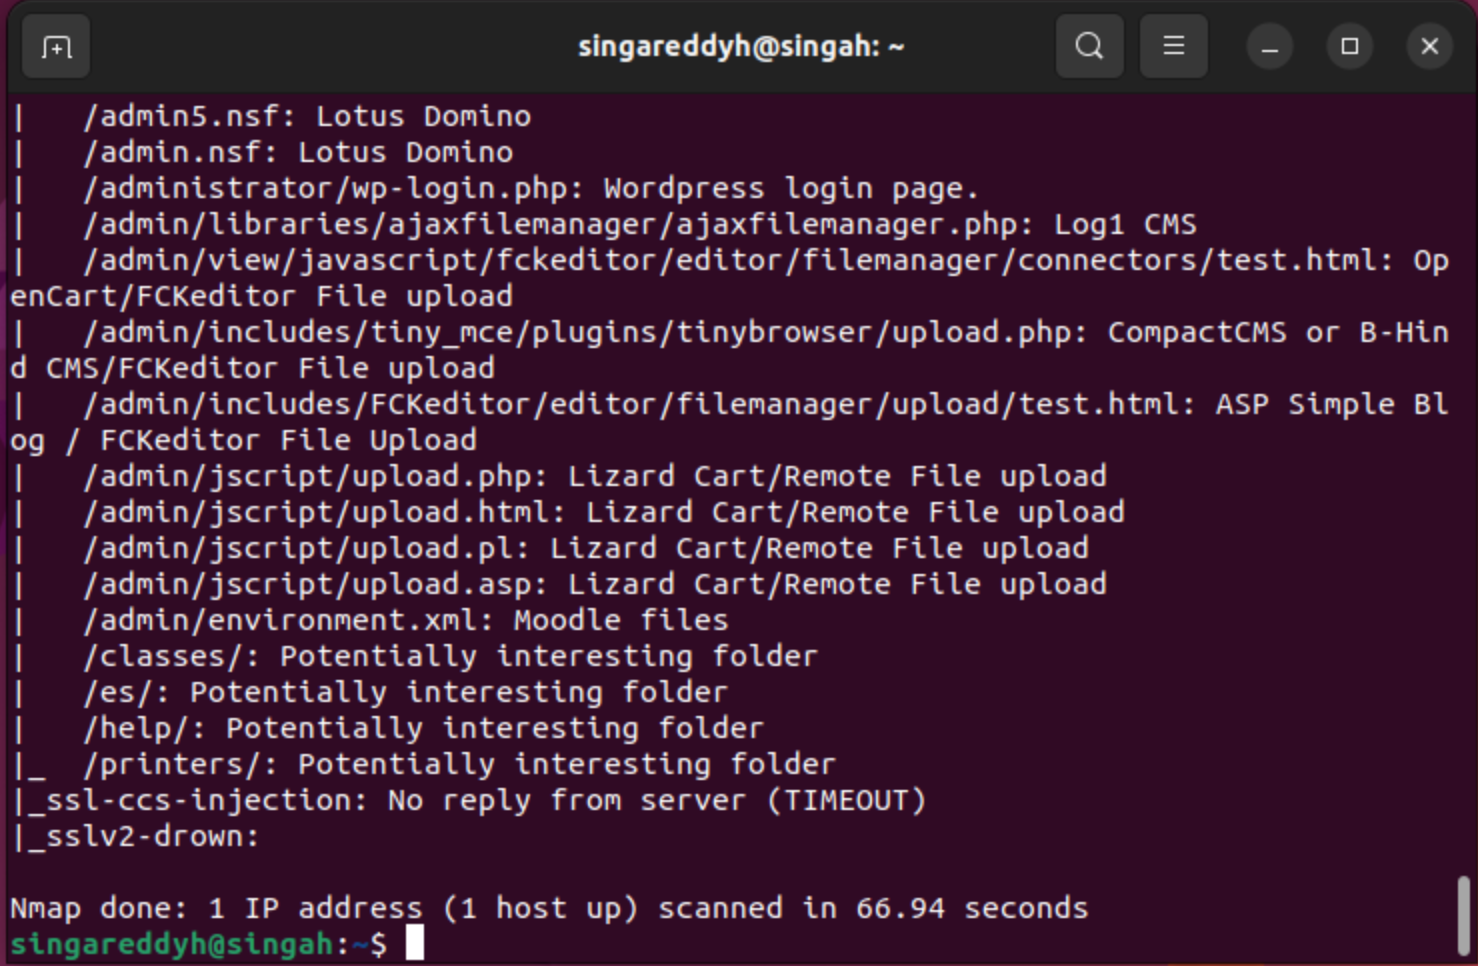
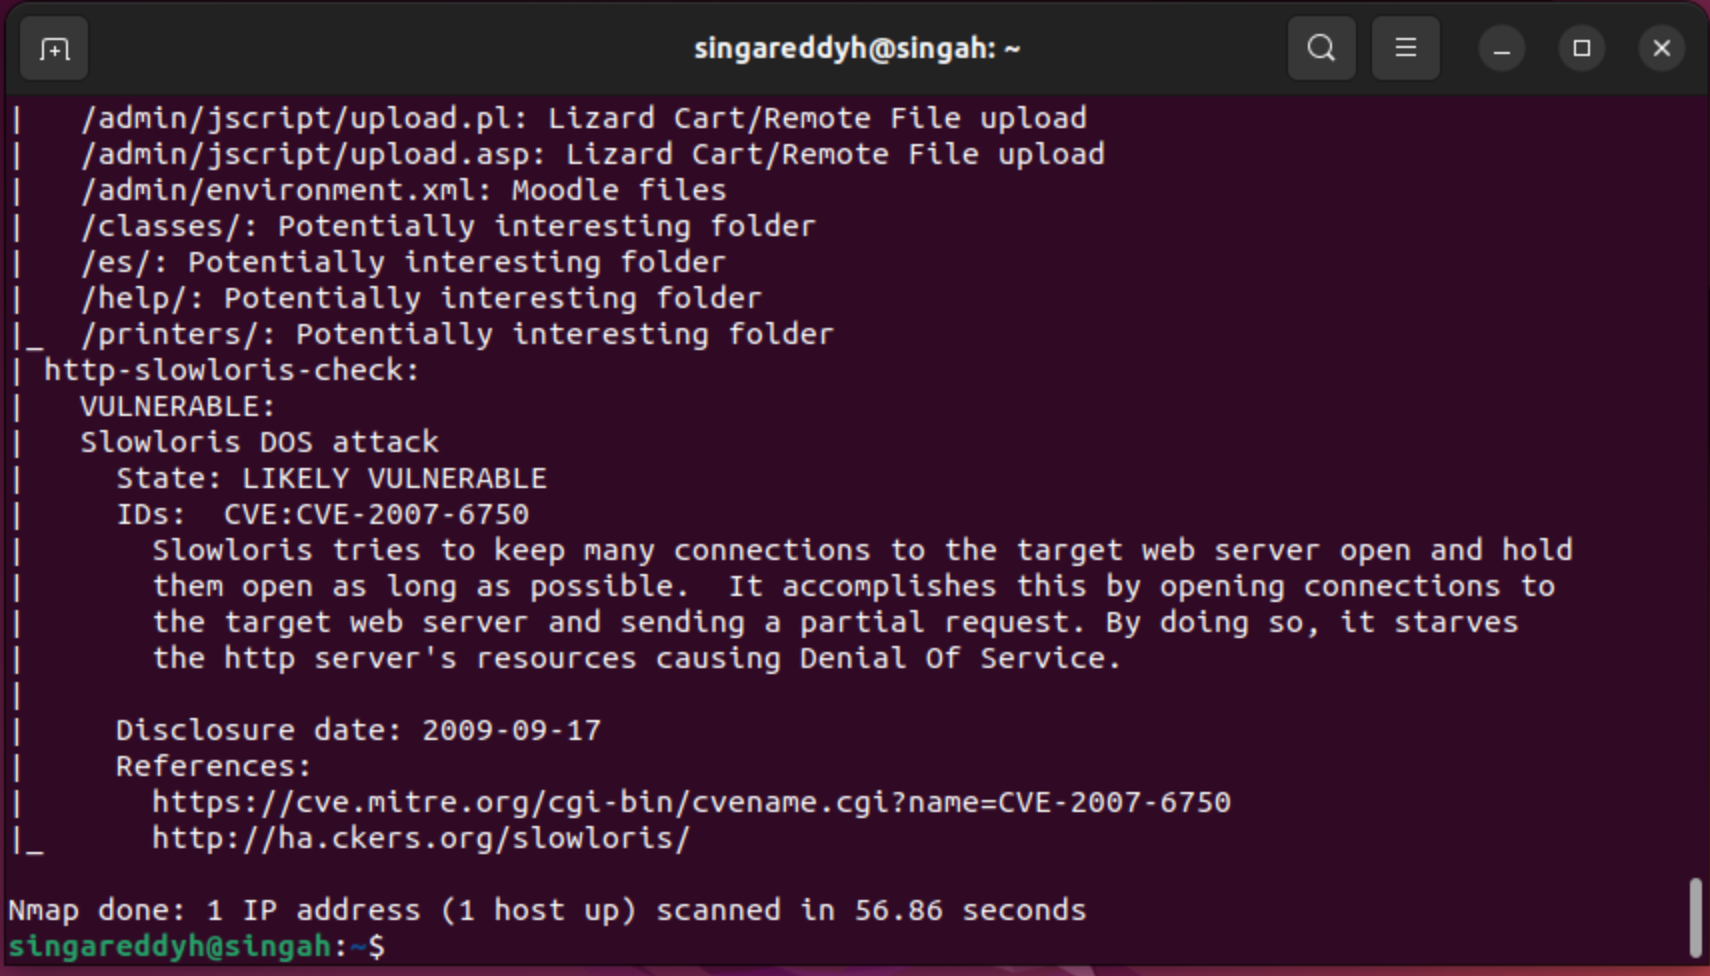
completion of ubuntu home lab

diff --git a/Ubuntu_Home_lab.md b/Ubuntu_Home_lab.md
@@ -7,8 +7,8 @@ This lab focuses on exploring the **network environment** of my Ubuntu virtual m
 **Command:**
 ip a or ifconfig
 
-**Purpose:**
-ip a or ifconfig displays all network interfaces and their assignment IP addresses. This helps me identify which interfaces are active and how my VM connects to the network.
+**Observation:**
+**ip a or ifconfig** displays all network interfaces and their assignment IP addresses. This helps me identify which interfaces are active and how my VM connects to the network.
 
 **Output:**
 ![ip a or ifconfig](./images/ip.png) 
@@ -18,8 +18,96 @@ ip a or ifconfig displays all network interfaces and their assignment IP address
 **Command:**
 sudo netstat -tuln or ss -tuln
 
-**Purpose:**
-sudo netstat -tuln or ss -tuln lists all open TCP or UDP ports to identify what services are listening on my system.
+**Observation:**
+**sudo netstat -tuln or ss -tuln** lists all open TCP or UDP ports to identify what services are listening on my system.
 
 **Output:**
 ![sudo netstat -tuln or ss -tuln](./images/sudo%20netstat.png)
+
+## 3. Analyze Network Connections
+
+**Command:**
+sudo lsof -i -P -n
+
+**Observation:**
+**sudo lsof -i -P -n** lists all open network connections and the processes that own them. **lsof (List Open Files)** shows files and sockets opened by processes. The -i flag filters network files, while -P -n avoid name resolution for speed.
+
+**Output:**
+![sudo lsof -i -P -n](./images/sudo%20lsof.png)
+
+## 4. Perform Network Scanning with Nmap
+
+**Command:**
+sudo nmap -sS -O localhost
+
+**Observation:**
+**sudo nmap -sS -O localhost** shows all the open or closed ports where i have two open ports(port 22 and port 631) and 998 closed ports.
+
+**Output:**
+![sudo nmap -sS -O localhost](./images/sudo%20nmap%20-sS.png)
+
+## 5. Check for Open Ports on the Server's Network
+
+**Command:**
+sudo nmap -sP 192.168.1.0/24
+
+**Observation:**
+**sudo nmap -sP 192.168.1.0/24** detected all live hosts on my local network and also ensures therre are no unauthorized devices connected.
+
+**Output:**
+![sudo nmap -sP 192.168.1.0/24](./images/sudo%20nmap%20-sP.png)
+
+## 6. Check for Services and Versions
+
+**Command:**
+sudo nmap -sV localhost
+
+**Observation:**
+**sudo nmap -sV localhost** scans for open ports and identifies service versions running on them. It detected the OpenSSH version and CUPS 2.8
+
+**Output:**
+![sudo nmap -sV localhost](./images/sudo%20nmap%20-sV.png)
+
+## 7. Identify Potential Vulnerabilities
+
+**Command:**
+sudo nmap --script vuln localhost
+
+**Observation:**
+**sudo nmap --script vuln localhost** runs vulnerability scripts against local services. where Nmap detected a potential Slowloris vulnerability on my VM machine.
+
+**Output:**
+![sudo nmap --script vuln localhost](./images/sudo%20nmap%20-sV.png)
+
+## 8. Inspect Network Traffic
+
+**Command:**
+sudo tcpdump -i ens160
+
+**Observation:**
+**sudo tcpdump -i ens160** captured 12 packets on my VM machine which appeares to be normal and minimal and none of them are dropped by the kernel.
+
+**Output:**
+![sudo tcpdump -i ens160](./images/sudo%20tcpdump.png)
+
+## 9. Monitor Network Connections in Real-Time
+
+**Command:**
+sudo watch -n 1 netstat -tulnp
+
+**Observation:**
+**sudo watch -n 1 netstat -tulnp** continously monitors my network connections, updating every second which helps in oberserving new connections or services starting.
+
+**Output:**
+![sudo watch -n 1 netstat -tulnp](./images/sudo%20watch.png)
+
+## 10. Check Firewall Rules
+
+**Command:**
+sudo ufw status verbose
+
+**Observation:**
+**sudo ufw status verbose** shows the status of the firewall. My firewall status is inactive because i don't have the setup yet.
+
+**Output:**
+![sudo ufw status verbose](./images/sudo%20ufw.png)
